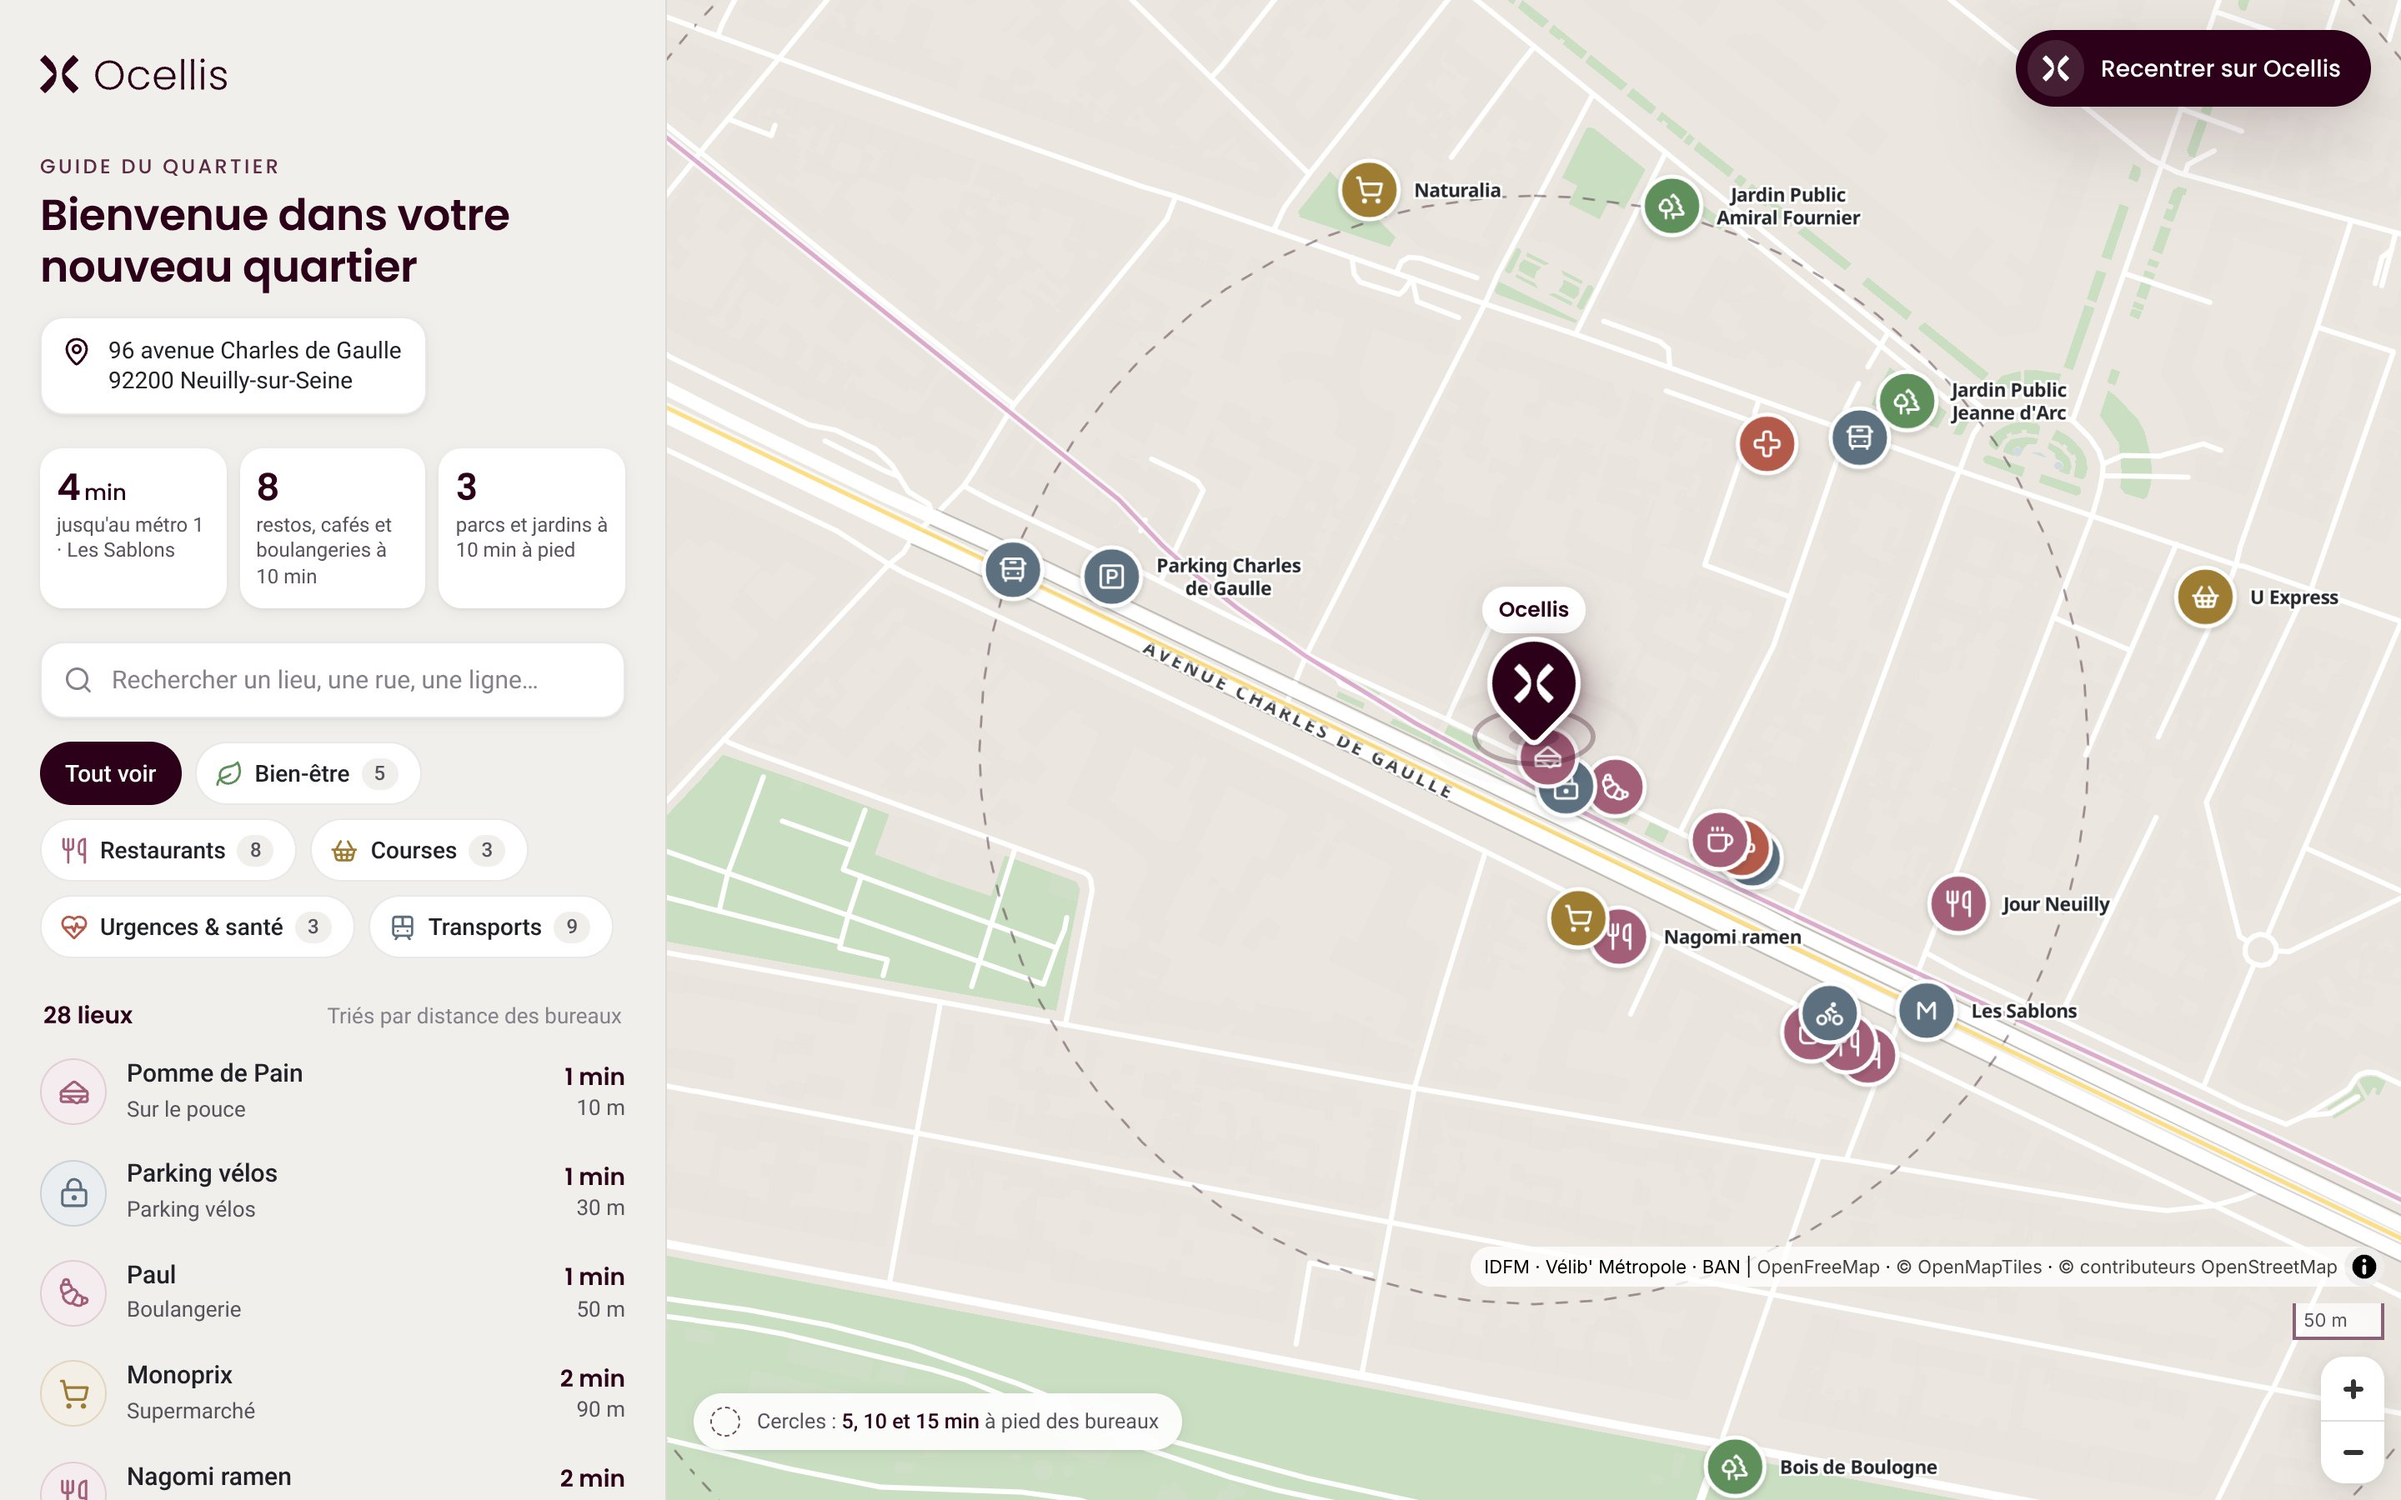
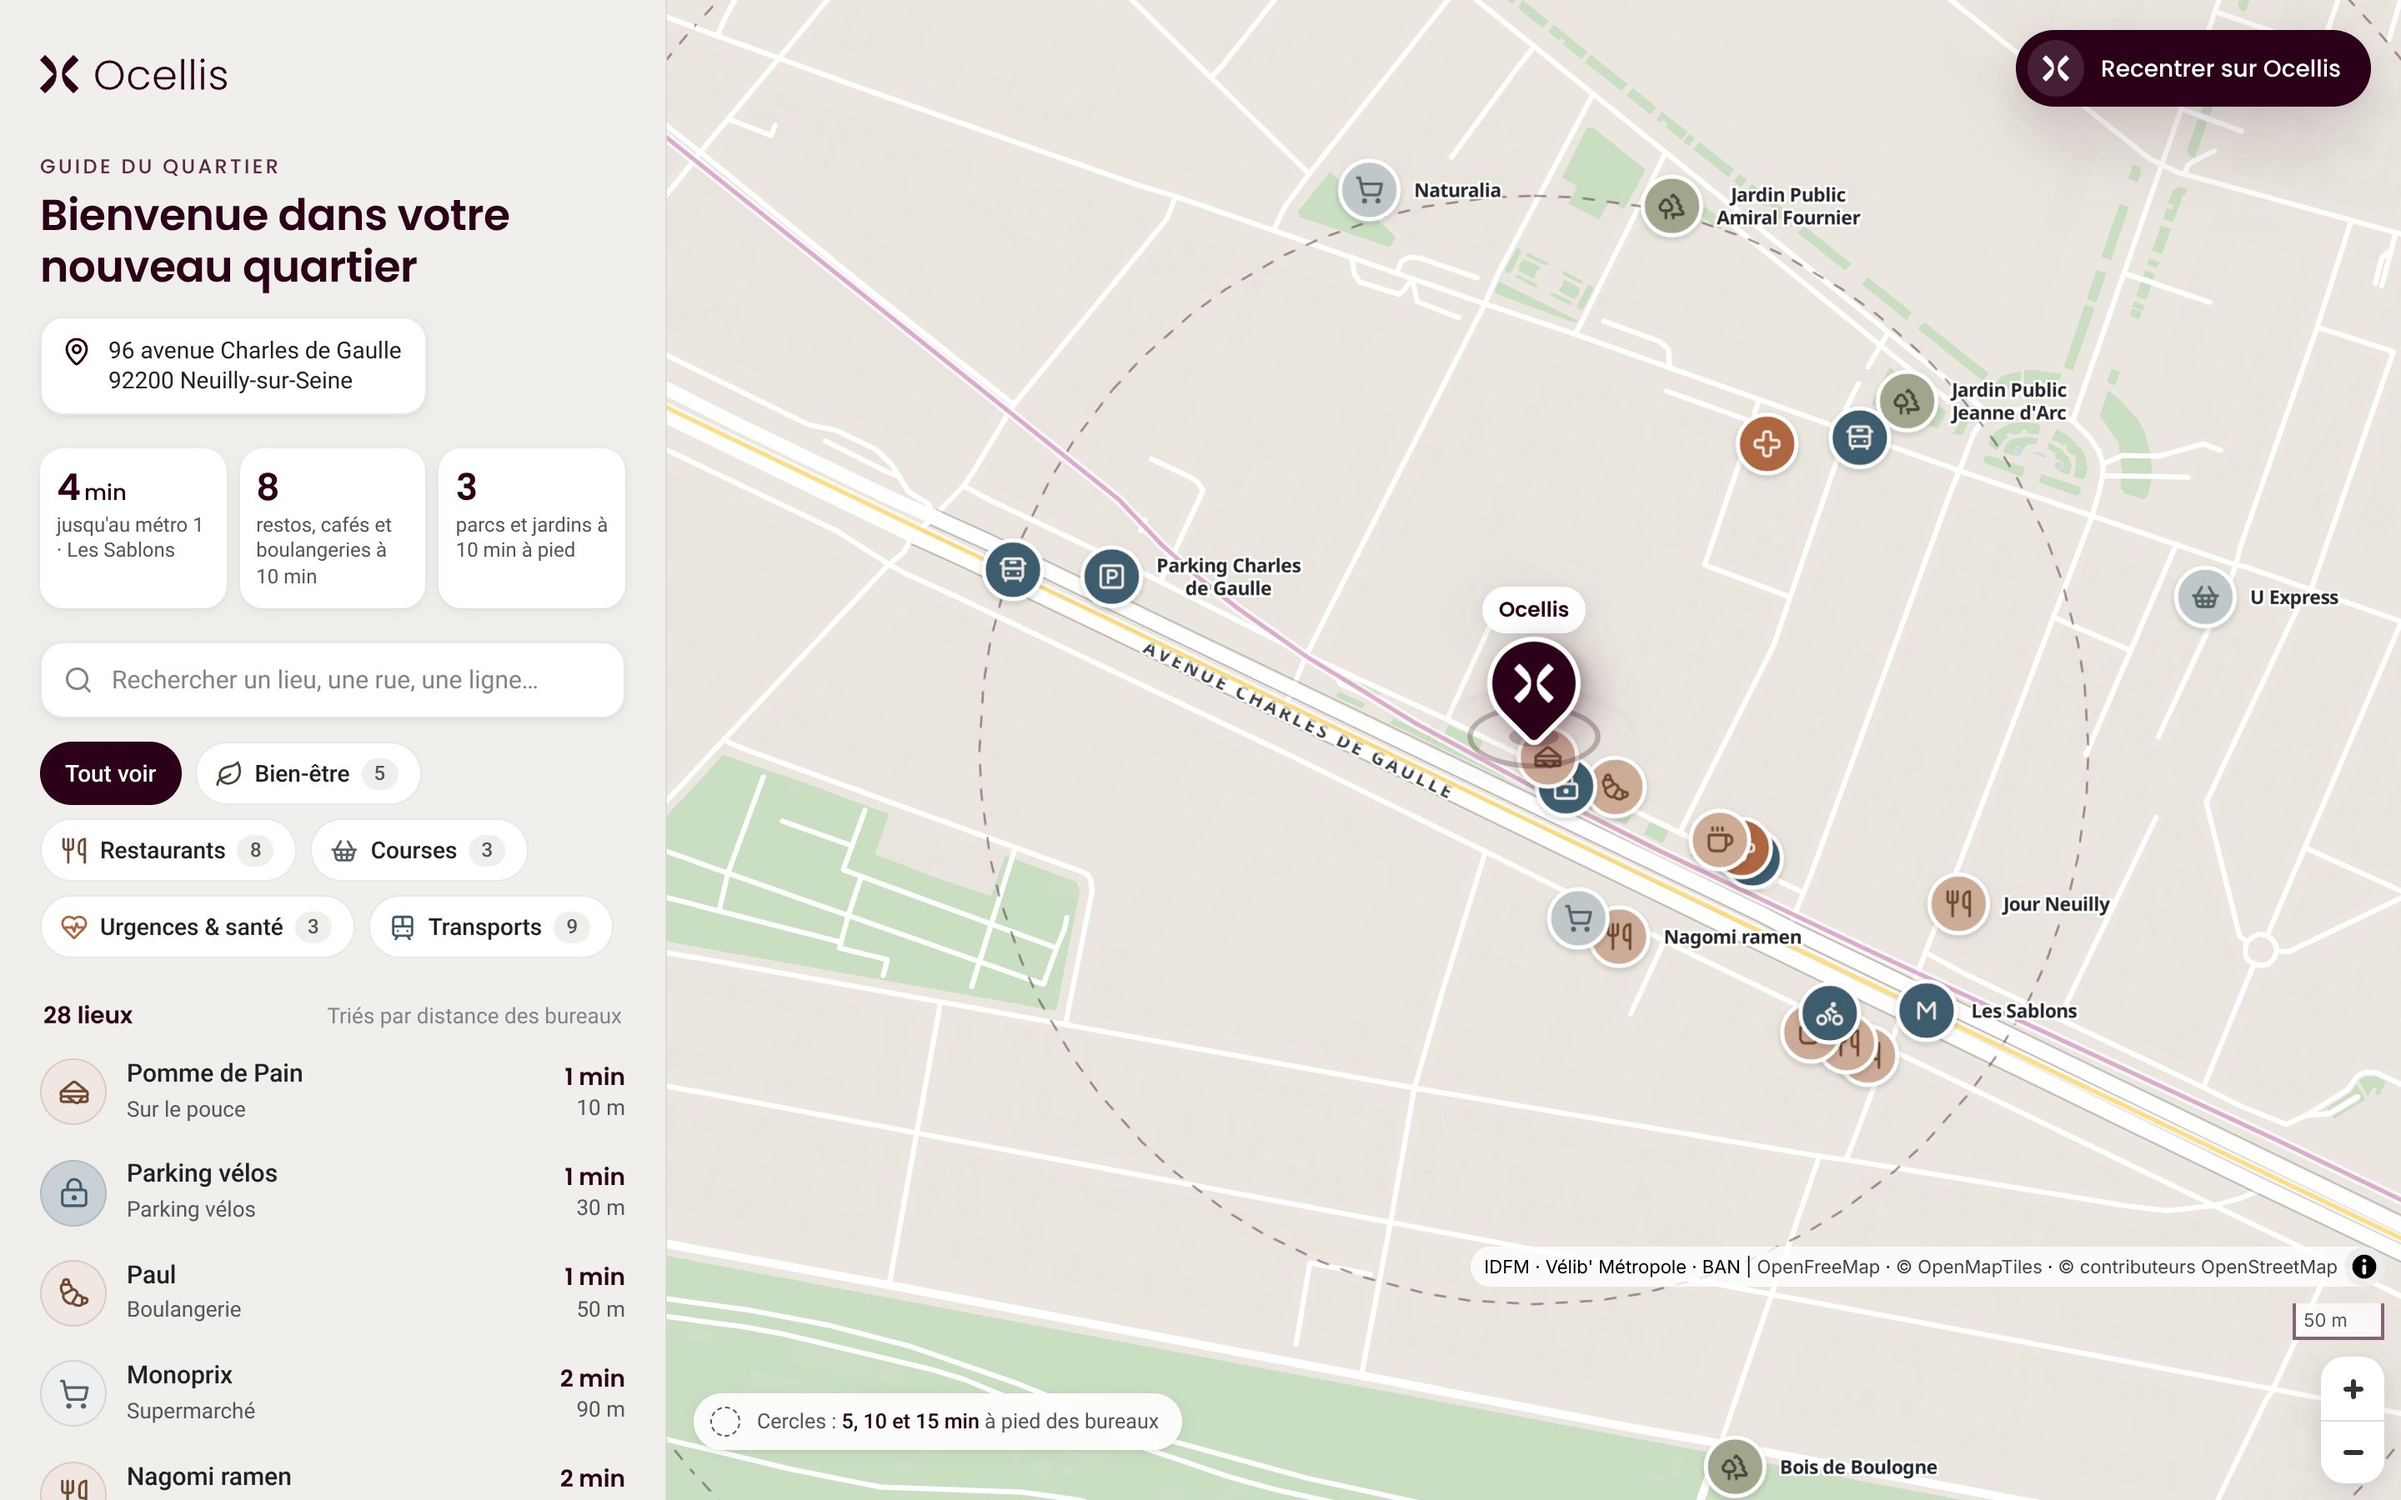
Pastilles de la carte : palette « Color combo no. 757 »
Rose sable (restaurants), gris bleu (courses), sauge (bien-être),
terracotta (santé), bleu ardoise (transports) ; pictogrammes crème sur les
teintes soutenues, même teinte assombrie sur les teintes claires
(contraste ≥ 3,6:1). Couleurs reprises dans la liste, les filtres et les
fiches. README et captures mis à jour.

Claude-Session: https://claude.ai/code/session_01HHKWByJ1UGMeUP9sBrXz3t

diff --git a/assets/js/config.js b/assets/js/config.js
@@ -3,17 +3,27 @@
  * Une seule couleur (l'aubergine Ocellis) pour toutes les catégories : on les distingue par le pictogramme.
  */
 /*
- * Une couleur sourde par catégorie (pastilles de la carte, pictogrammes de la liste et des filtres).
- * Tons choisis pour rester doux à côté de l'aubergine Ocellis, et contrastés avec un pictogramme blanc.
+ * Une couleur par catégorie, tirée de la palette « Color combo no. 757 » :
+ * crème #F0E7E2, rose sable #CEAB97, sauge #A1A58C, terracotta #AD6640, bleu ardoise #3D5C6E, gris bleu #BFC7C9.
+ *  - color : fond de la pastille sur la carte ;
+ *  - glyph : couleur du pictogramme sur la pastille (crème sur les teintes soutenues,
+ *            même teinte assombrie sur les teintes claires, contraste ≥ 3,6:1) ;
+ *  - ink   : couleur des pictogrammes de la liste et des filtres (lisible sur fond clair).
  */
 export const CATEGORIES = [
-  { id: 'bien-etre', label: 'Bien-être', short: 'Bien-être', icon: 'leaf', color: '#5f8f5a', blurb: 'Sport, piscine, parcs et jardins' },
-  { id: 'restaurants', label: 'Restaurants', short: 'Restos', icon: 'utensils', color: '#a35f78', blurb: 'Déjeuners, cafés, boulangeries' },
-  { id: 'courses', label: 'Courses', short: 'Courses', icon: 'shopping-basket', color: '#9e7b33', blurb: 'Supermarchés et supérettes' },
-  { id: 'sante', label: 'Urgences & santé', short: 'Santé', icon: 'heart-pulse', color: '#b35a4c', blurb: 'Pharmacies et hôpital' },
-  { id: 'transports', label: 'Transports', short: 'Transports', icon: 'tram-front', color: '#5b6f80', blurb: "Métro, RER, bus, Vélib', parkings" },
+  { id: 'bien-etre', label: 'Bien-être', short: 'Bien-être', icon: 'leaf', color: '#a1a58c', glyph: '#464838', ink: '#464838', blurb: 'Sport, piscine, parcs et jardins' },
+  { id: 'restaurants', label: 'Restaurants', short: 'Restos', icon: 'utensils', color: '#ceab97', glyph: '#714a33', ink: '#714a33', blurb: 'Déjeuners, cafés, boulangeries' },
+  { id: 'courses', label: 'Courses', short: 'Courses', icon: 'shopping-basket', color: '#bfc7c9', glyph: '#566366', ink: '#566366', blurb: 'Supermarchés et supérettes' },
+  { id: 'sante', label: 'Urgences & santé', short: 'Santé', icon: 'heart-pulse', color: '#ad6640', glyph: '#f0e7e2', ink: '#ad6640', blurb: 'Pharmacies et hôpital' },
+  { id: 'transports', label: 'Transports', short: 'Transports', icon: 'tram-front', color: '#3d5c6e', glyph: '#f0e7e2', ink: '#3d5c6e', blurb: "Métro, RER, bus, Vélib', parkings" },
 ];
 export const CATEGORY_COLOR = Object.fromEntries(CATEGORIES.map((c) => [c.id, c.color]));
+export const CATEGORY_STYLE = Object.fromEntries(CATEGORIES.map((c) => [c.id, c]));
+/** Variables CSS d'une catégorie, pour la liste, les filtres et les fiches. */
+export const catVars = (id) => {
+  const c = CATEGORY_STYLE[id];
+  return c ? `--cat:${c.color};--cat-ink:${c.ink};--cat-glyph:${c.glyph}` : '';
+};
 
 /** Types de lieux : libellé + pictogramme (Lucide, ou « metro » dessiné à la main). */
 export const TYPES = {

diff --git a/assets/css/app.css b/assets/css/app.css
@@ -263,7 +263,7 @@ a { color: inherit; }
   white-space: nowrap;
   transition: background 0.15s, color 0.15s, border-color 0.15s, transform 0.15s var(--ease);
 }
-.chip .ico { width: 17px; height: 17px; color: var(--cat, var(--prune)); transition: color 0.15s; }
+.chip .ico { width: 17px; height: 17px; color: var(--cat-ink, var(--prune)); transition: color 0.15s; }
 .chip__count {
   min-width: 22px;
   padding: 1px 6px;
@@ -330,11 +330,11 @@ a { color: inherit; }
   width: 40px; height: 40px;
   border-radius: 50%;
   background: var(--white);
-  background: color-mix(in srgb, var(--cat, var(--prune)) 12%, var(--white));
-  color: var(--cat, var(--prune));
-  box-shadow: inset 0 0 0 1px color-mix(in srgb, var(--cat, var(--prune)) 22%, transparent);
+  background: color-mix(in srgb, var(--cat, var(--prune)) 28%, var(--white));
+  color: var(--cat-ink, var(--prune));
+  box-shadow: inset 0 0 0 1px color-mix(in srgb, var(--cat-ink, var(--prune)) 18%, transparent);
 }
-.result:hover .result__icon, .result.is-active .result__icon { background: var(--cat, var(--prune)); color: var(--white); box-shadow: none; }
+.result:hover .result__icon, .result.is-active .result__icon { background: var(--cat, var(--prune)); color: var(--cat-glyph, var(--white)); box-shadow: none; }
 .result__icon .ico { width: 19px; height: 19px; }
 .result__body { min-width: 0; }
 .result__name {
@@ -593,7 +593,7 @@ a { color: inherit; }
   width: 28px; height: 28px;
   border-radius: 50%;
   background: var(--cat, var(--prune));
-  color: var(--white);
+  color: var(--cat-glyph, var(--white));
 }
 .card__kicker-icon .ico { width: 15px; height: 15px; }
 .card__title {

diff --git a/README.md b/README.md
@@ -21,7 +21,7 @@ Elle aide les collaborateurs à repérer rapidement les restaurants, commerces, 
   - **Bien-être** (5) : une salle de sport, la piscine, deux jardins proches et la lisière du Bois de Boulogne (environ 400 m).
   - **Urgences & santé** (3) : les 2 pharmacies les plus proches, l'hôpital le plus proche, et un encart avec les numéros d'urgence (15, 18, 17, 112, 114, 3237).
   - **Transports** (9) : 2 stations de métro 1, la gare RER C/E, 2 arrêts de bus (lignes officielles), 2 stations Vélib' avec la **disponibilité en temps réel**, le parking et le parking vélos devant les bureaux. Les tracés de la ligne 1 et des RER C et E sont dessinés dans leurs couleurs officielles, adoucies.
-- **Une couleur sourde par catégorie** : vieux rose pour les restaurants, ocre sable pour les courses, vert sauge pour le bien-être, terracotta pour la santé, gris bleuté pour les transports. Chaque lieu est une pastille de 40 px avec un **pictogramme** blanc (jeu d'icônes Lucide) et son nom à côté. Les filtres et la liste reprennent ces couleurs et servent de légende. L'aubergine reste réservée au marqueur Ocellis et aux interactions.
+- **Une couleur par catégorie**, tirée de la palette « Color combo no. 757 » : rose sable `#CEAB97` pour les restaurants, gris bleu `#BFC7C9` pour les courses, sauge `#A1A58C` pour le bien-être, terracotta `#AD6640` pour la santé, bleu ardoise `#3D5C6E` pour les transports. Chaque lieu est une pastille de 40 px avec un **pictogramme** (jeu d'icônes Lucide) : crème `#F0E7E2` sur les teintes soutenues, même teinte assombrie sur les teintes claires. Son nom s'affiche à côté. Les filtres et la liste reprennent ces couleurs et servent de légende. L'aubergine reste réservée au marqueur Ocellis et aux interactions.
 - **Un fond de carte illustré et épuré**, façon plan de quartier : rues blanches et nettes, bâtiments très pâles visibles seulement de près, espaces verts doux, seuls les grands axes nommés. L'avenue Charles de Gaulle est soulignée d'un double filet.
 - **Cercles de temps de marche** à 5, 10 et 15 minutes autour des bureaux. Chaque lieu affiche son temps à pied estimé et sa distance.
 - **Une fiche par lieu** : type, adresse, temps à pied, lignes desservies, bouton **Itinéraire depuis Ocellis** (à pied), liens vers Google Maps (horaires et avis), OpenStreetMap, Citymapper et Plans.
